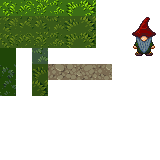
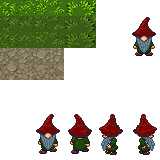
grass template wip

diff --git a/js/sparkAssets.js b/js/sparkAssets.js
@@ -19,6 +19,13 @@ class SparkAssets {
                     { x: 16*4, y: 16*2, width: 16, height: 16 },
                     { x: 16*5, y: 16*2, width: 16, height: 16 },
                 ]},
+                { tag: "road",      cls: "VarSprite", variations: [
+                    { x: 16*0, y: 16*3, width: 16, height: 16 },
+                    { x: 16*1, y: 16*3, width: 16, height: 16 },
+                    { x: 16*2, y: 16*3, width: 16, height: 16 },
+                    { x: 16*3, y: 16*3, width: 16, height: 16 },
+                ]},
+
             ]},
 
             // a sheet of images
@@ -59,12 +66,13 @@ class SparkAssets {
         ];
 
         this.assets = [
-            { id: "001",    tag: "player", cls: "Character", 
+            { id: "002",    tag: "grass", cls: "Tile", xsketch: { cls: "Media", tag: "grass" }},
+            { id: "003",    tag: "road", cls: "Tile", xsketch: { cls: "Media", tag: "road" }},
+
+            { id: "c01",    tag: "player", cls: "Character", 
                             xsketch: { cls: "Media", tag: "gnome" },
                             xcollider: { width:15, height:16, color: "rgba(0,0,127,.5)" }, },
-            { id: "002",    tag: "grass", cls: "Tile", xsketch: { cls: "Media", tag: "grass" }},
-
-            { id: "003",    tag: "npc", cls: "Character", 
+            { id: "c02",    tag: "npc", cls: "Character", 
                             ctrlId: 0,
                             bedTag: "bob",
                             xai: { 

diff --git a/js/world.js b/js/world.js
@@ -111,16 +111,23 @@ class World {
             this.genRegion({width: 32, height: 24, xlayers: [{ id: '0002' }]}),
             //this.house1,
             {
-                width: 3,
-                height: 3,
+                width: 4,
+                height: 4,
                 offx: 6,
                 offy: 4,
                 layers: {
                     main: {
+                        bg: [   
+                            "0003","0003","0003","0003",
+                            "0003","0003","0003","0003",
+                            "0003","0003","0003","0003",
+                            "0003","0003","0003","0003",
+                        ],
                         fg: [   
-                            "0000","0000","0000",
-                            "0000","0000","0000",
-                            "0000","0001","0000",
+                            "0000","0000","0000","0000",
+                            "0000","0000","0000","0000",
+                            "0000","0c01","0000","0000",
+                            "0000","0000","0000","0000",
                         ],
                     },
                 },
